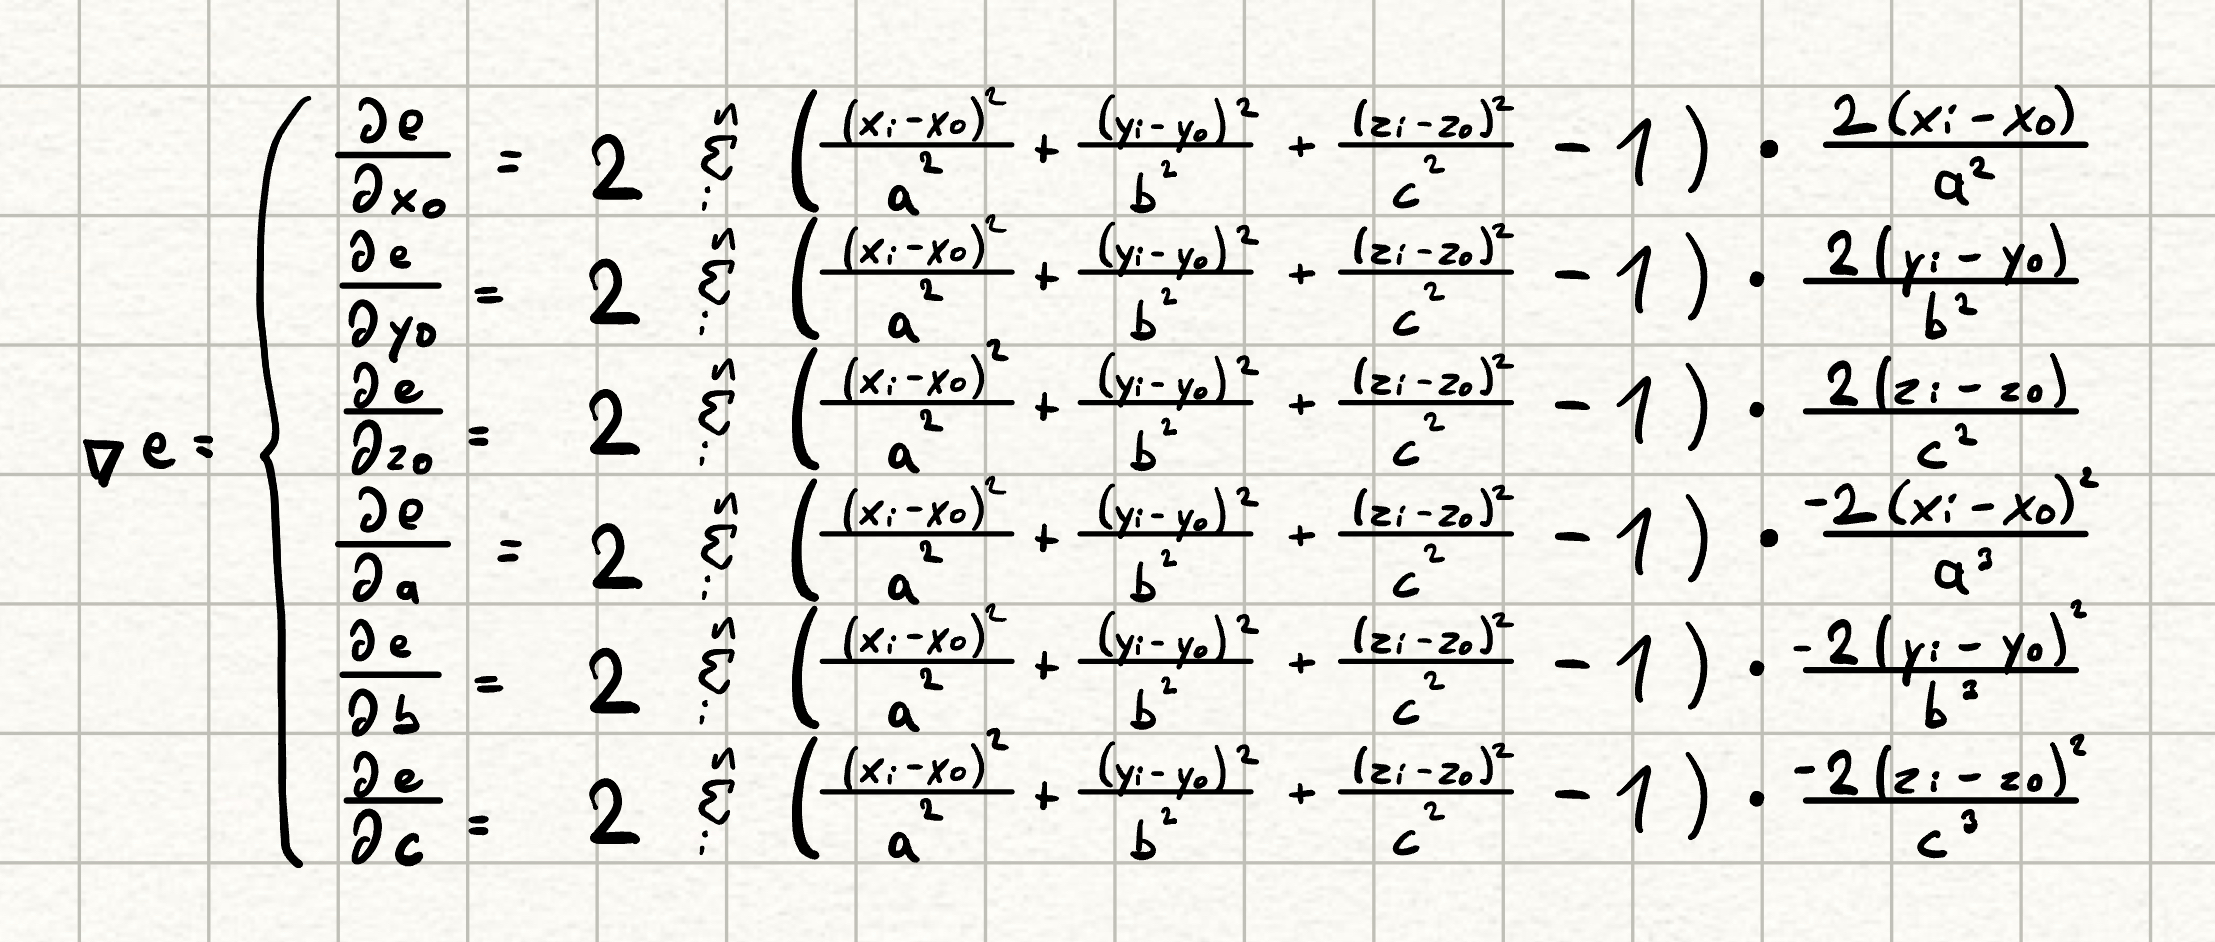
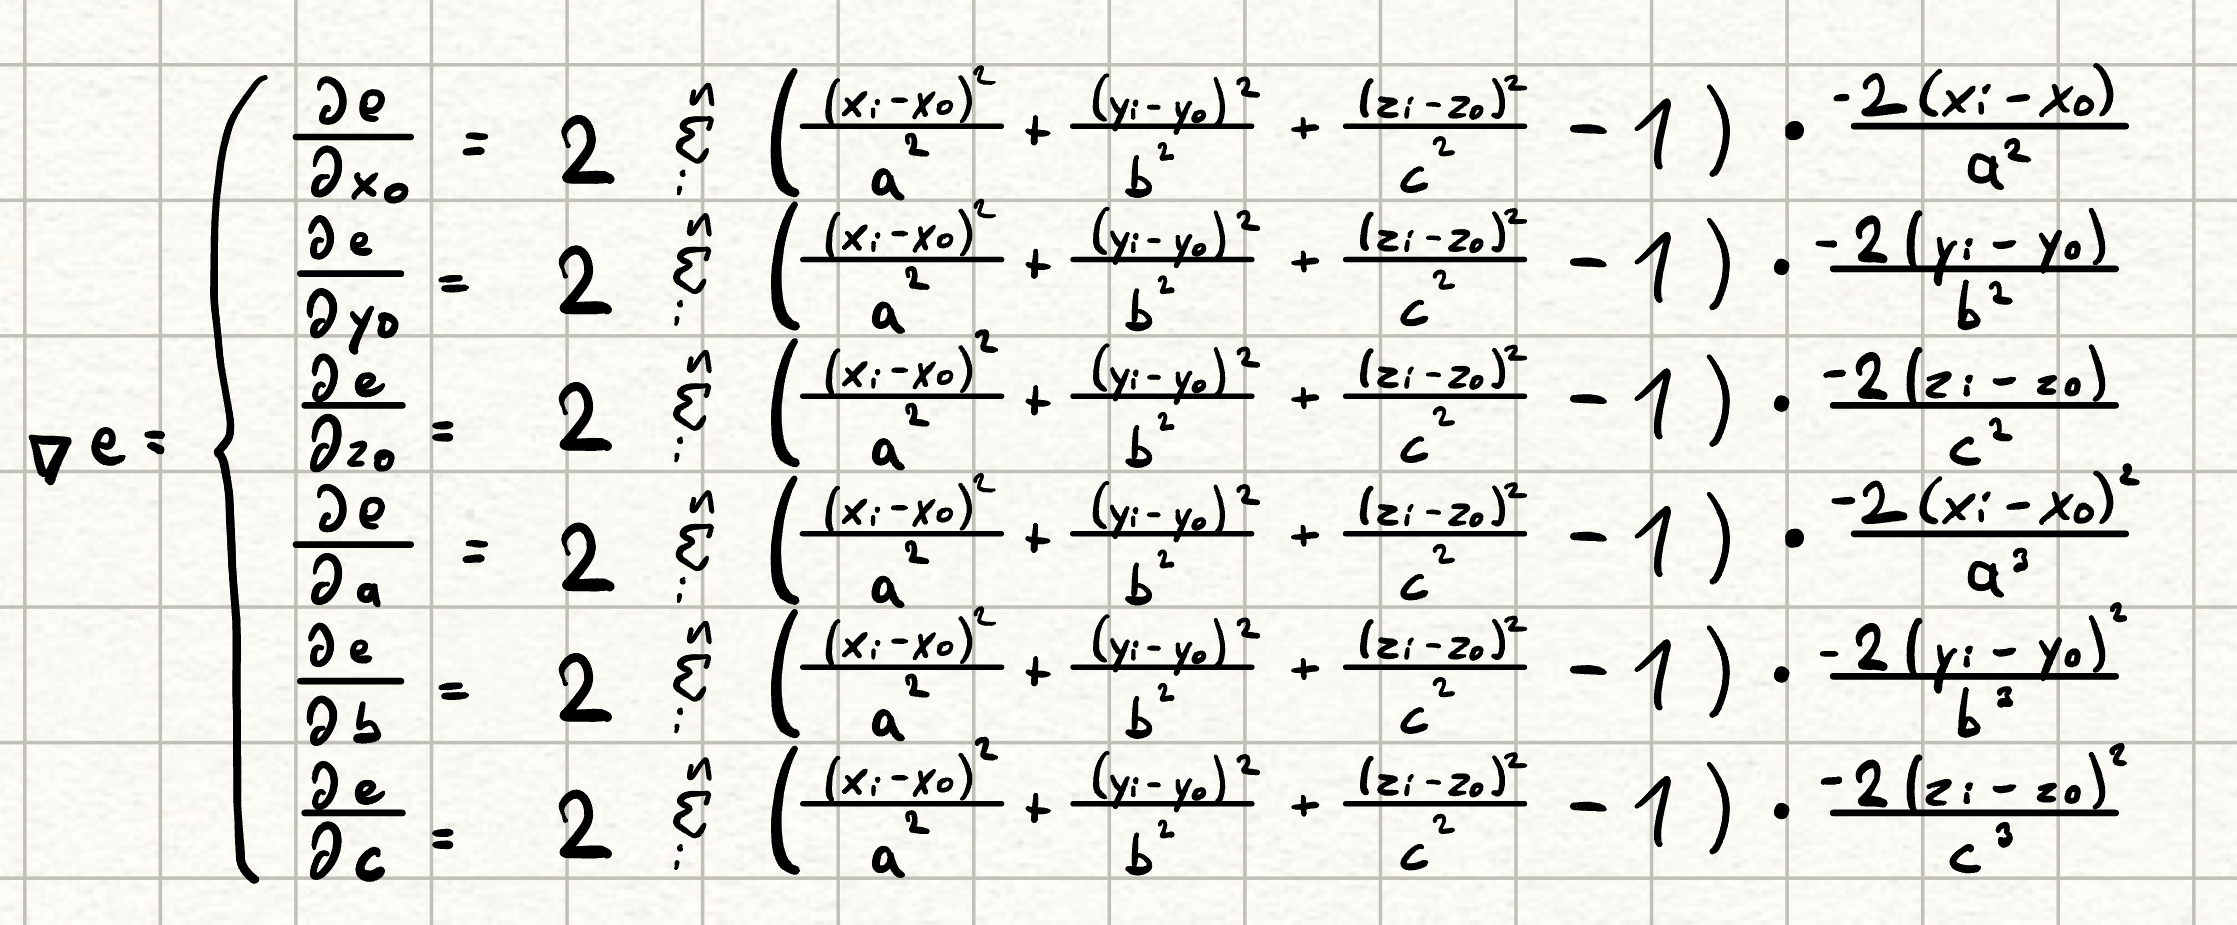
Fix wrong differential and try different initial values

Changed region(s): [[0.0, 0.0, 1.0, 1.0], [0.3115, 0.9989, 0.3427, 1.0]]

diff --git a/src/fittingEllipsoid.cpp b/src/fittingEllipsoid.cpp
@@ -1,5 +1,6 @@
 #include <stdio.h>
 #include"testData.h"
+// #include"smallerTestData.h"
 
 struct magEllipsoid{
     float x0;
@@ -11,18 +12,18 @@ struct magEllipsoid{
 };
 
 float normalPart(magEllipsoid guess, float mx, float my, float mz){
-    float first = (mx - guess.x0) * (mx - guess.x0)/ guess.a * guess.a;
-    float second= (my - guess.y0) * (my - guess.y0)/ guess.b * guess.b;
-    float third = (mz - guess.z0) * (mz - guess.z0)/ guess.c * guess.c;
-    return 2.0 * (first + second + third - 1.0);
+    float first  = (mx - guess.x0) * (mx - guess.x0) / (guess.a * guess.a);
+    float second = (my - guess.y0) * (my - guess.y0) / (guess.b * guess.b);
+    float third  = (mz - guess.z0) * (mz - guess.z0) / (guess.c * guess.c);
+    return (first + second + third - 1.0);
 }
 
 float specialPartUpper(float mag, float guess, float denominator){
-    return 2.0 * (mag - guess) / (denominator * denominator);
+    return (mag - guess) / (denominator * denominator);
 }
 
 float specialPartLower(float mag, float guess, float denominator){
-    return - 2.0 * (mag - guess) * (mag - guess) / (denominator * denominator * denominator);
+    return (mag - guess) * (mag - guess) / (denominator * denominator * denominator);
 }
 
 float errorGradient(magEllipsoid guess, int numberMagValues, float (*function)(float, float, float),
@@ -30,16 +31,16 @@ float errorGradient(magEllipsoid guess, int numberMagValues, float (*function)(f
     float errorSum = 0.0;
     for (int i = 0; i < numberMagValues; i++) {
         float normal = normalPart(guess, magData[i][0], magData[i][1], magData[i][2]);
-        normal = normal * function(specialMag, specialGuess, specialDenominator);
-        errorSum += normal * normal;
+        errorSum += normal * function(specialMag, specialGuess, specialDenominator);
         // printf("%i, errorSum: %f\n", i, errorSum);
     }
-    return errorSum;
+    return -4.0 * errorSum;
 }
 
 magEllipsoid getEllipsoidValues(int numberMagValues, int steps, float learningRate){
     // Initialize
-    magEllipsoid guess = {220.0, 100.0, 60.0, 250.0, 250.0, 250.0};
+    // magEllipsoid guess = {200.0, 100.0, 50.0, 100.0, 100.0, 100.0};
+    magEllipsoid guess = {2.0, 1.0, 5.0, 1.0, 1.1, 1.0};
     printf("step, x0, y0, z0, a, b, c, learningRate\n");
     // Repeat 2 and 3
     for (int i = 0; i < steps; i++) {
@@ -63,6 +64,7 @@ magEllipsoid getEllipsoidValues(int numberMagValues, int steps, float learningRa
 }
 
 int main(){
-    magEllipsoid result = getEllipsoidValues(180, 15, 0.00000004);
+    magEllipsoid result = getEllipsoidValues(numberMagPoints, 50, 0.0000000000001);
+    // printf("%f, %f, %f, %f, %f, %f\n", result.x0, result.y0, result.z0, result.a, result.b, result.c);
     return 0;
 }

diff --git a/src/smallerTestData.h b/src/smallerTestData.h
@@ -1,0 +1,16 @@
+float numberMagPoints = 12;
+
+float magData[12][3] = {
+    253.21, -207.34, 27.52,
+    92.66, -127.52, 193.58,
+    -21.1, -19.27, 125.69,
+    108.26, 223.85, 126.61,
+    328.44, 280.73, 40.37,
+    468.81, 74.31, 2.75,
+    443.12, -85.32, 232.11,
+    243.12, 85.32, 307.34,
+    73.39, 25.69, -115.6,
+    194.5, 84.4, -177.98,
+    318.35, 13.76, -149.54,
+    186.24, -122.02, -96.33
+};

diff --git a/src/testData.h b/src/testData.h
@@ -1,3 +1,5 @@
+float numberMagPoints = 180;
+
 float magData[180][3] = {
         334.860000000000,	-17.4300000000000,	-177.060000000000,
         332.110000000000,	-16.5100000000000,	-176.150000000000,

diff --git a/README.md b/README.md
@@ -51,3 +51,16 @@ When trying different learning rates with the first implementation, none of them
 
 With larger learning rates the values approach infinity even more quickly.
 This implies that something is wrong with this first implementation.
+
+## Improvements
+
+Looking over the basic steps I realized, that my first differential was wrong. 
+After fixing this I tested the algorithm without very different results.
+Just for fun I tried a different set of initial guess values, far away from the actual centre of the ellipsoid.
+The Plots were very interesting, because the gradients seemed to overshoot (depending on the learning rate more or less) and then approach zero. 
+
+![](images/ellipsoidPlots/1e-10.png)
+![](images/ellipsoidPlots/1e-11.png)
+![](images/ellipsoidPlots/1e-12.png)
+
+The resulting values were still far from the actual centre. 
